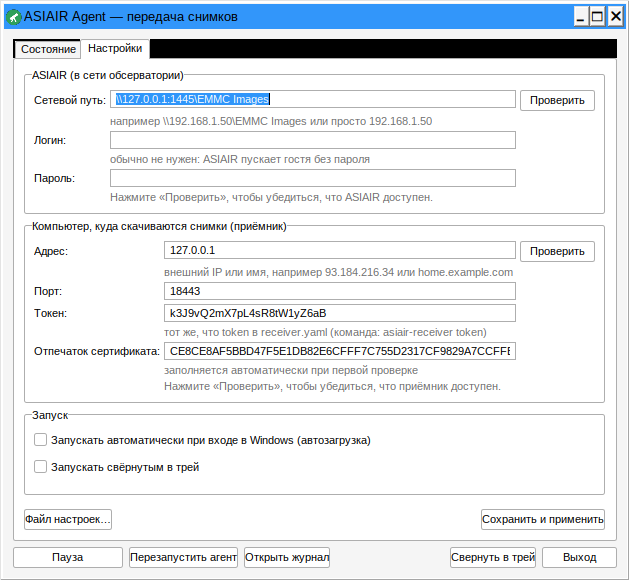
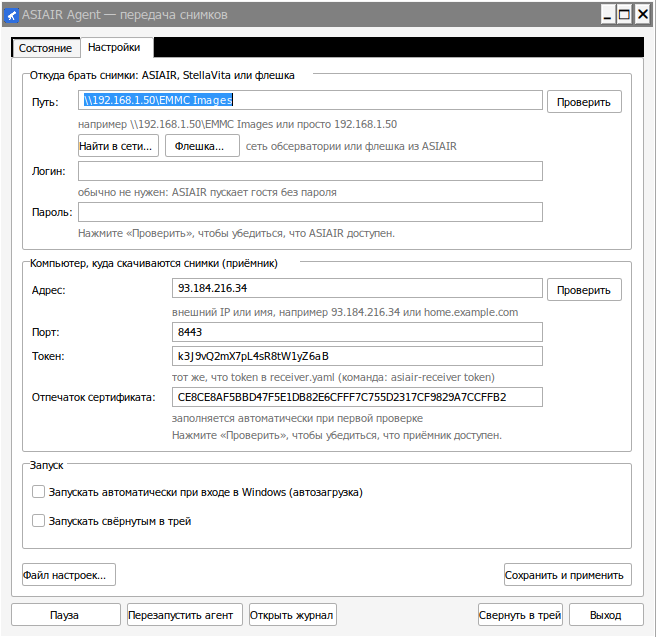
README: new agent settings screenshot with «Найти в сети…», clearer step
The screenshot predates the search and USB buttons and the new icon; the
setup step now starts with «Найти в сети…» and says what it fills in.

Claude-Session: https://claude.ai/code/session_01E6QWmgoga23jzWbbcaLWHD

Changed region(s): [[0.0, 0.0, 1.0, 1.0]]

diff --git a/README.md b/README.md
@@ -157,9 +157,14 @@
 
    ![Настройки агента](docs/images/agent-settings.png)
 
-2. **ASIAIR → Сетевой путь:** IP ASIAIR (виден в приложении ASIAIR в настройках Wi-Fi/LAN), например `192.168.1.50`, или путь `\\192.168.1.50\EMMC Images`. Логин и пароль оставьте пустыми. Нажмите **«Проверить»**: должно появиться «OK: вход: гость (guest), шары: EMMC Images».
+2. **Откуда брать снимки** (верхний блок вкладки «Настройки»). Проще всего нажать кнопку **«Найти в сети…»** под полем «Путь»: агент просканирует локальную сеть обсерватории (до /24 на каждом подключении) и сам заполнит поля.
+   * **ASIAIR** узнаётся по гостевой шаре `EMMC Images`: путь станет `\\IP\EMMC Images`, логин и пароль останутся пустыми.
+   * **StellaVita** узнаётся по входу `as` / `astrostation`: путь станет `\\IP\Astrostation`, логин и пароль подставятся сами.
+   * Если найдено несколько устройств, агент спросит, какое использовать. Если ничего не найдено — проверьте, что компьютер в той же сети, и впишите адрес вручную.
 
-   Адрес можно не искать: кнопка **«Найти в сети…»** просканирует локальную сеть (до /24 на каждом подключении) и сама найдёт ASIAIR (гостевая шара `EMMC Images`) или StellaVita. Для StellaVita автоматически подставляются путь `\\IP\Astrostation`, логин `as` и пароль `astrostation`. Если найдено несколько устройств, агент спросит, какое использовать.
+   Вручную: в поле **«Путь»** введите IP ASIAIR (виден в приложении ASIAIR в настройках Wi-Fi/LAN), например `192.168.1.50`, или путь `\\192.168.1.50\EMMC Images`. Логин и пароль для ASIAIR не нужны.
+
+   Затем нажмите **«Проверить»** справа от пути: должно появиться «OK: вход: гость (guest), шары: EMMC Images».
 
    **Флешка вместо сети.** Если снимки удобнее забрать с флешки, выньте её из ASIAIR и вставьте в компьютер с агентом, затем нажмите **«Флешка…»** и **«Сохранить и применить»**. Путь станет `usb:`: агент читает первую вставленную флешку, какая бы буква диска ей ни досталась (`usb:E:\` — только диск E:). Файлы получают те же пути, что и с шары `Udisk` ASIAIR, поэтому уже полученное по сети обычно не скачивается заново (если время файлов на флешке совпадает с тем, что отдавал ASIAIR). Кнопка «Нет» в вопросе позволяет выбрать диск или любую папку вручную. Чтобы вернуться к ASIAIR, снова укажите его адрес или нажмите «Найти в сети…».
 3. **Приёмник:**
